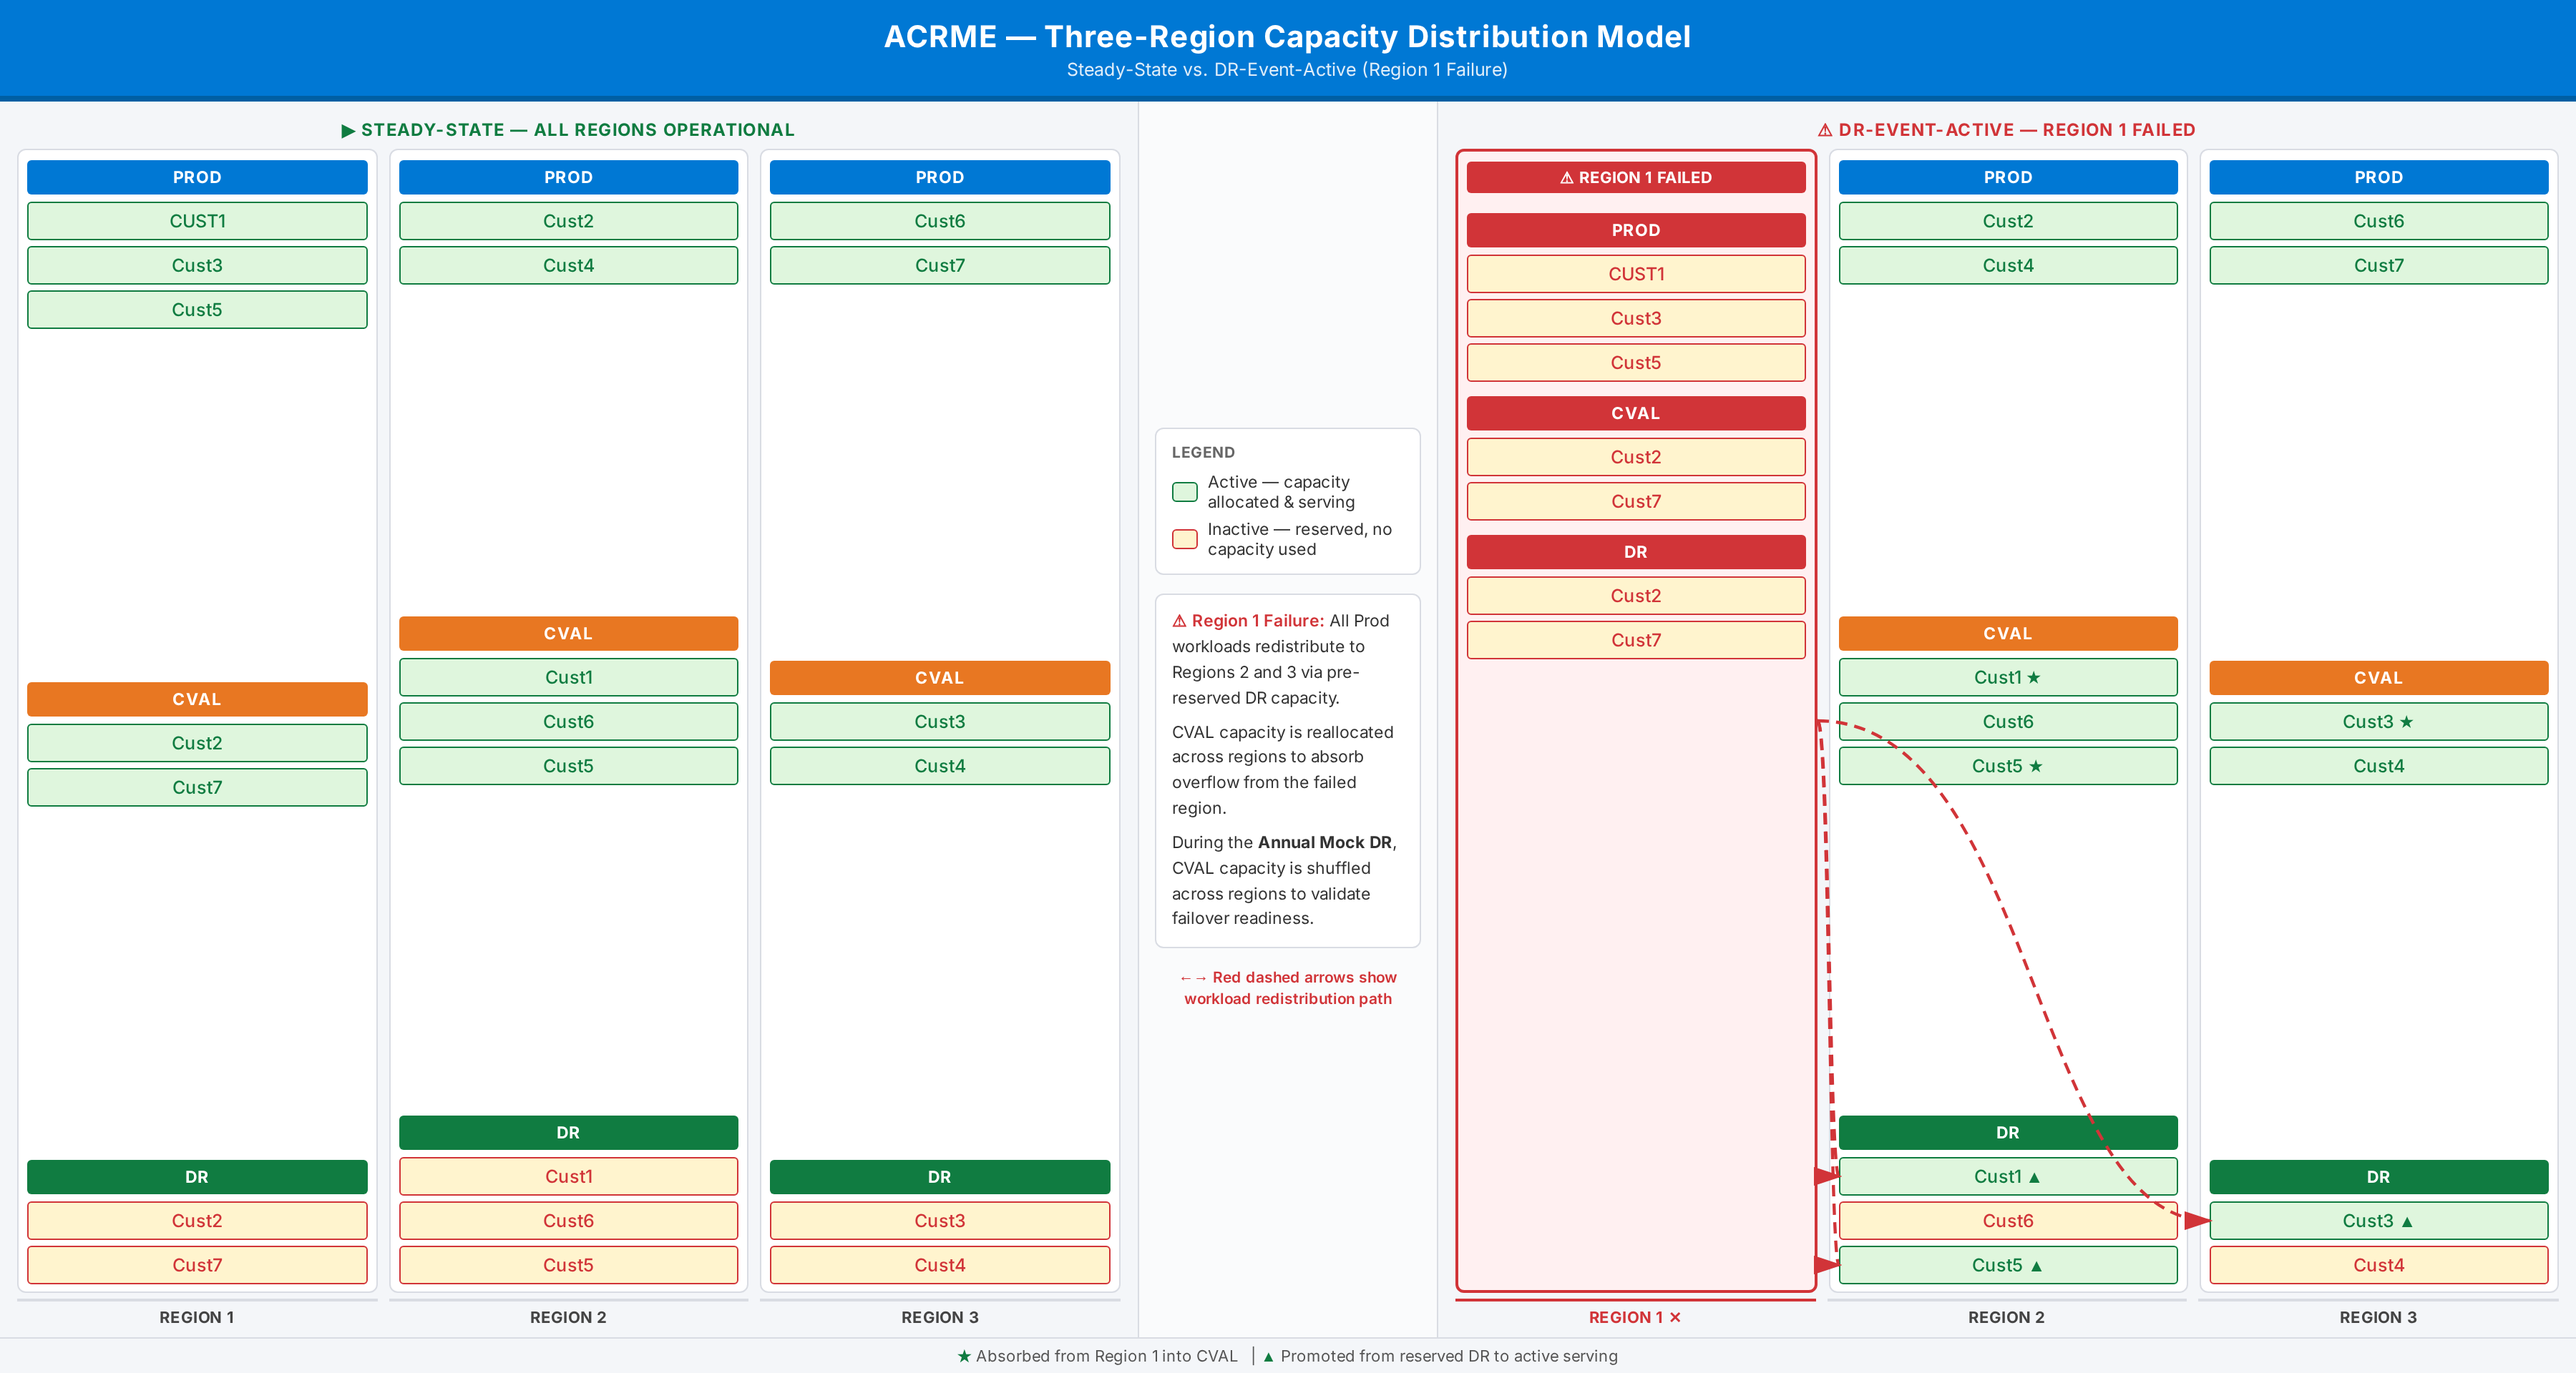
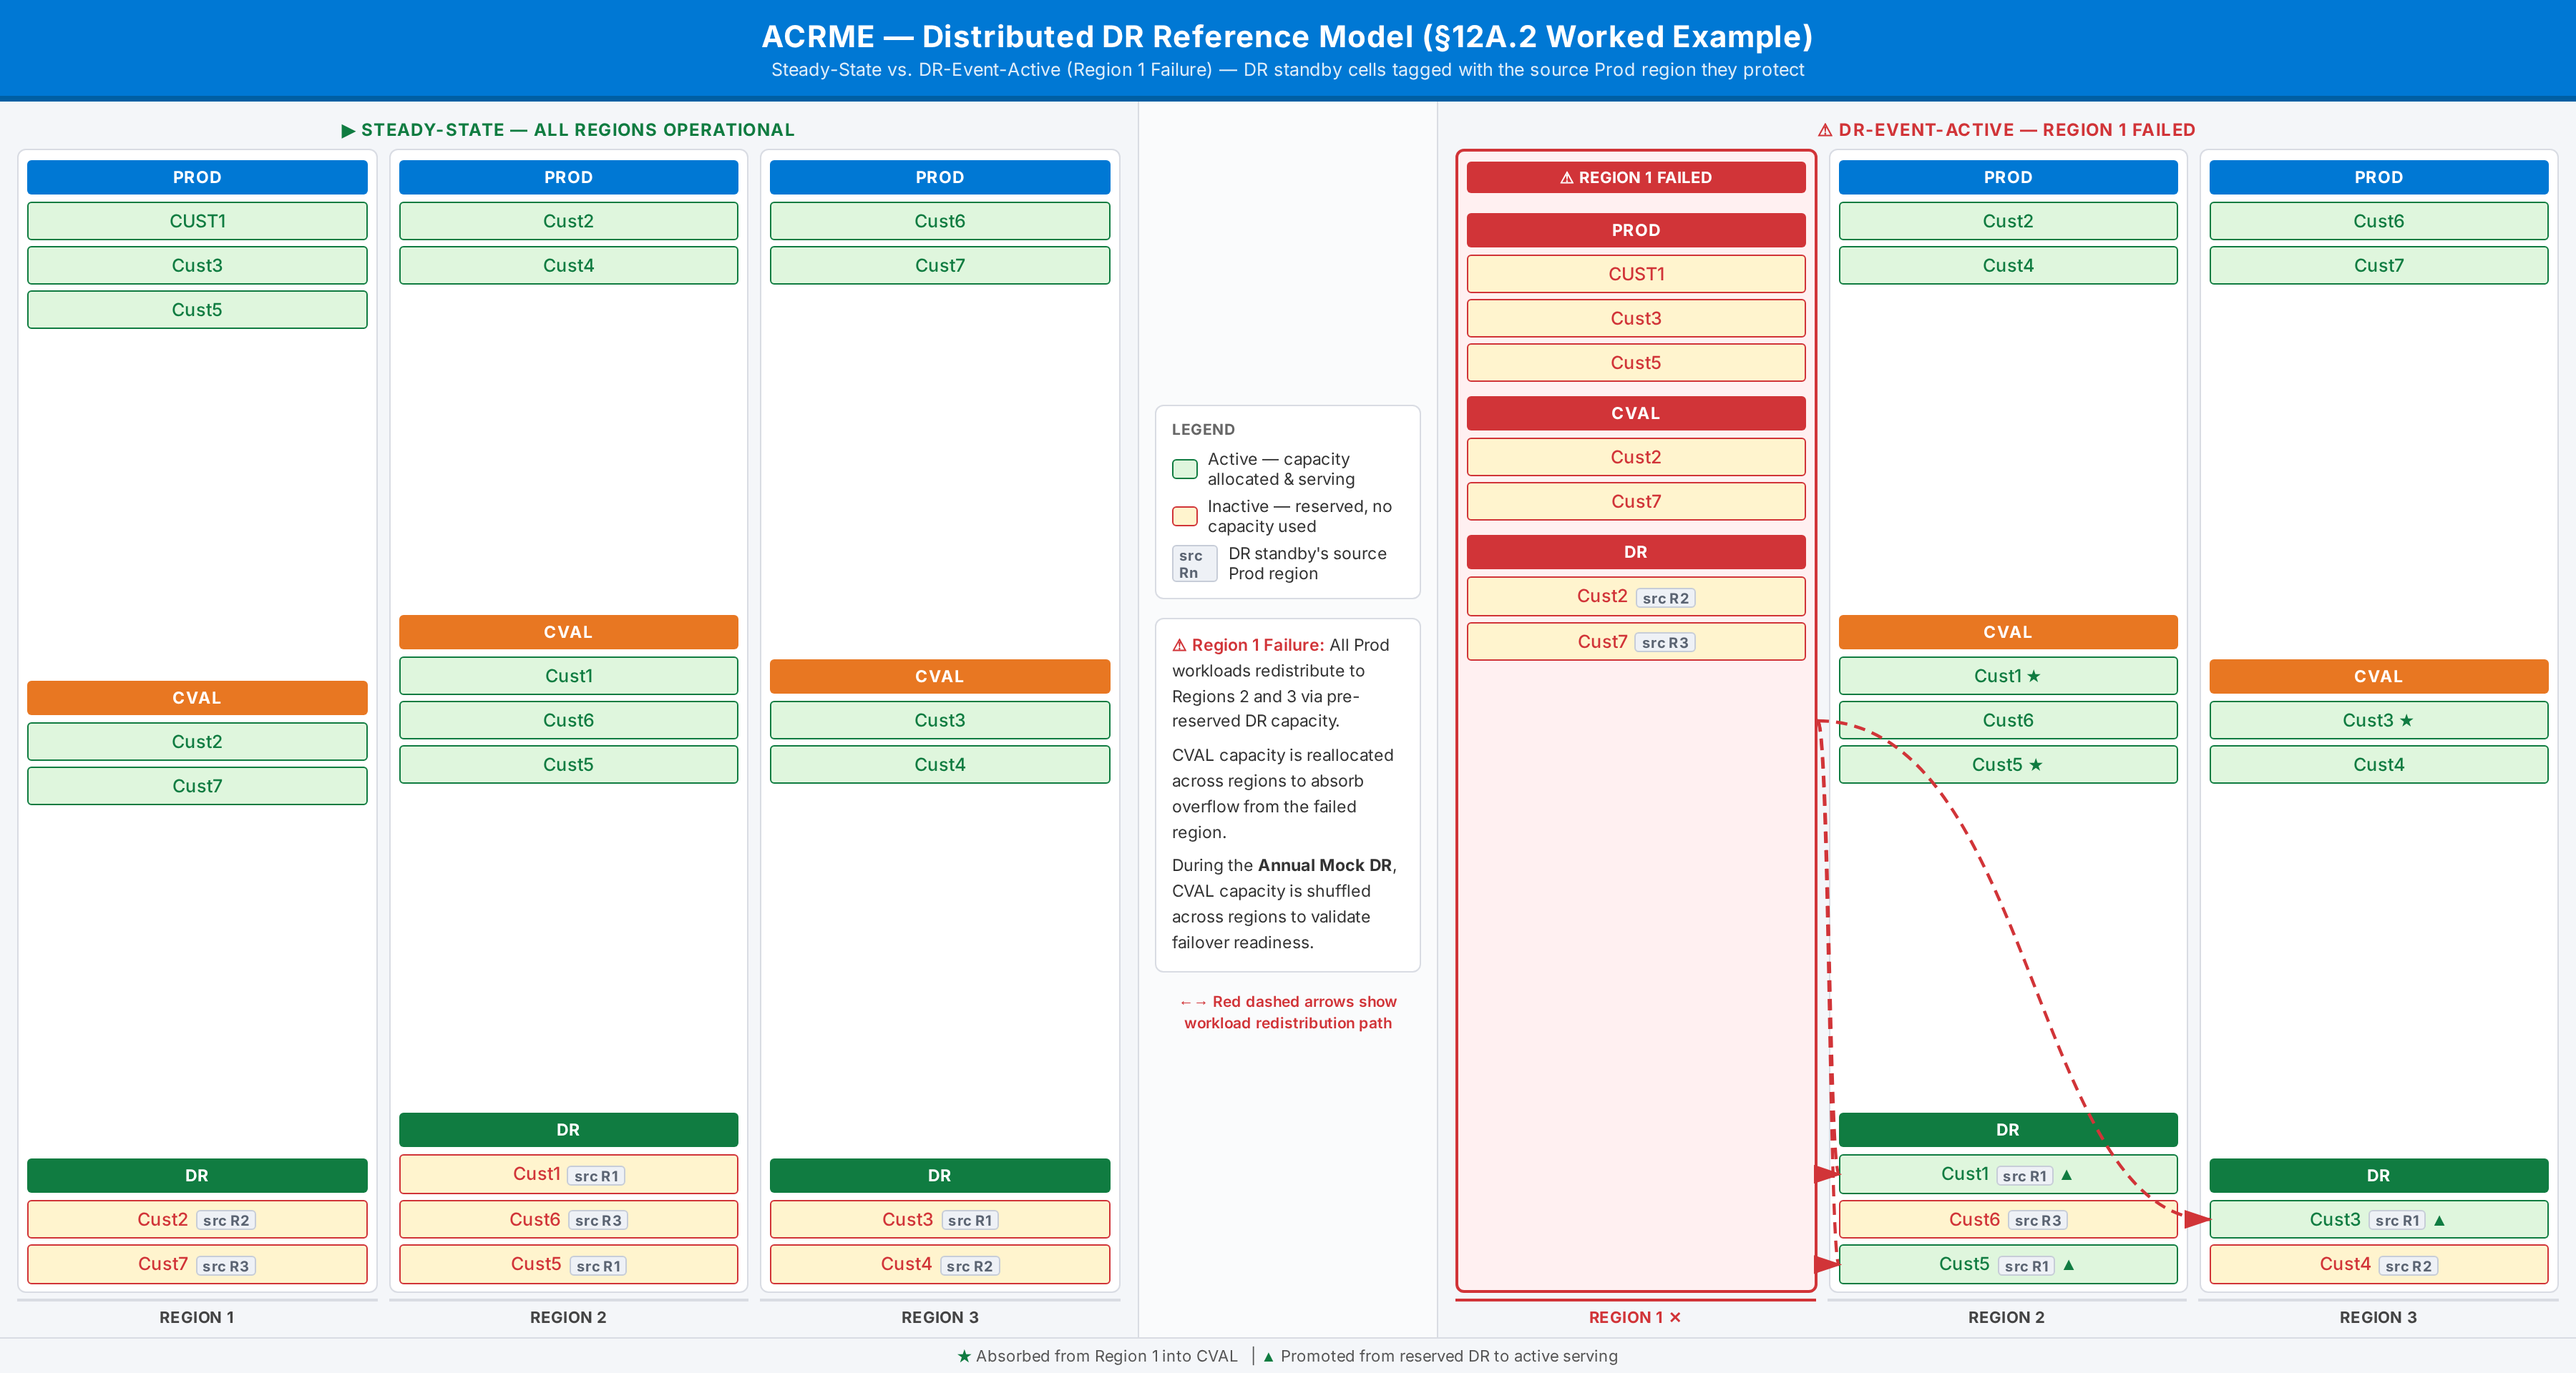
Update §12A.2 distributed DR diagram: tag each DR standby cell with its source Prod region

diff --git a/docs/adr/diagrams/acrme_three_region_capacity_model.html b/docs/adr/diagrams/acrme_three_region_capacity_model.html
@@ -104,6 +104,14 @@
     }
     .on  { background: #DFF6DD; color: #107C41; border: 1.5px solid #107C41; }
     .off { background: #FFF4CE; color: #D13438; border: 1.5px solid #D13438; }
+    .src {
+      display: inline-block;
+      font-size: 10px; font-weight: 700;
+      color: #5B6472; background: #EEF1F6;
+      border: 1px solid #C7CDD8; border-radius: 3px;
+      padding: 0 4px; margin-left: 5px; vertical-align: middle;
+      letter-spacing: .2px;
+    }
 
     /* ── FAILED BADGE ── */
     .fail-badge {
@@ -182,8 +190,8 @@
 <body>
 
   <div class="hdr">
-    <h1>ACRME — Three-Region Capacity Distribution Model</h1>
-    <p>Steady-State vs. DR-Event-Active (Region 1 Failure)</p>
+    <h1>ACRME — Distributed DR Reference Model (§12A.2 Worked Example)</h1>
+    <p>Steady-State vs. DR-Event-Active (Region 1 Failure) — DR standby cells tagged with the source Prod region they protect</p>
   </div>
 
   <div id="canvas">
@@ -213,8 +221,8 @@
           <div class="env">
             <div class="env-hdr dr">DR</div>
             <div class="env-cells">
-              <div class="cell off">Cust2</div>
-              <div class="cell off">Cust7</div>
+              <div class="cell off">Cust2<span class="src">src R2</span></div>
+              <div class="cell off">Cust7<span class="src">src R3</span></div>
             </div>
           </div>
         </div>
@@ -239,9 +247,9 @@
           <div class="env">
             <div class="env-hdr dr">DR</div>
             <div class="env-cells">
-              <div class="cell off">Cust1</div>
-              <div class="cell off">Cust6</div>
-              <div class="cell off">Cust5</div>
+              <div class="cell off">Cust1<span class="src">src R1</span></div>
+              <div class="cell off">Cust6<span class="src">src R3</span></div>
+              <div class="cell off">Cust5<span class="src">src R1</span></div>
             </div>
           </div>
         </div>
@@ -265,8 +273,8 @@
           <div class="env">
             <div class="env-hdr dr">DR</div>
             <div class="env-cells">
-              <div class="cell off">Cust3</div>
-              <div class="cell off">Cust4</div>
+              <div class="cell off">Cust3<span class="src">src R1</span></div>
+              <div class="cell off">Cust4<span class="src">src R2</span></div>
             </div>
           </div>
         </div>
@@ -285,6 +293,7 @@
         <div class="leg-ttl">Legend</div>
         <div class="leg-row"><div class="swatch on"></div>Active — capacity allocated &amp; serving</div>
         <div class="leg-row"><div class="swatch off"></div>Inactive — reserved, no capacity used</div>
+        <div class="leg-row"><span class="src" style="margin-left:0">src Rn</span>DR standby's source Prod region</div>
       </div>
       <div class="desc-box">
         <p><span class="warn">⚠ Region 1 Failure:</span> All Prod workloads redistribute to Regions 2 and 3 via pre-reserved DR capacity.</p>
@@ -320,8 +329,8 @@
           <div class="env">
             <div class="env-hdr fail">DR</div>
             <div class="env-cells">
-              <div class="cell off">Cust2</div>
-              <div class="cell off">Cust7</div>
+              <div class="cell off">Cust2<span class="src">src R2</span></div>
+              <div class="cell off">Cust7<span class="src">src R3</span></div>
             </div>
           </div>
         </div>
@@ -346,9 +355,9 @@
           <div class="env">
             <div class="env-hdr dr">DR</div>
             <div class="env-cells">
-              <div class="cell on" id="t1">Cust1 ▲</div>
-              <div class="cell off">Cust6</div>
-              <div class="cell on" id="t2">Cust5 ▲</div>
+              <div class="cell on" id="t1">Cust1<span class="src">src R1</span> ▲</div>
+              <div class="cell off">Cust6<span class="src">src R3</span></div>
+              <div class="cell on" id="t2">Cust5<span class="src">src R1</span> ▲</div>
             </div>
           </div>
         </div>
@@ -372,8 +381,8 @@
           <div class="env">
             <div class="env-hdr dr">DR</div>
             <div class="env-cells">
-              <div class="cell on" id="t3">Cust3 ▲</div>
-              <div class="cell off">Cust4</div>
+              <div class="cell on" id="t3">Cust3<span class="src">src R1</span> ▲</div>
+              <div class="cell off">Cust4<span class="src">src R2</span></div>
             </div>
           </div>
         </div>
